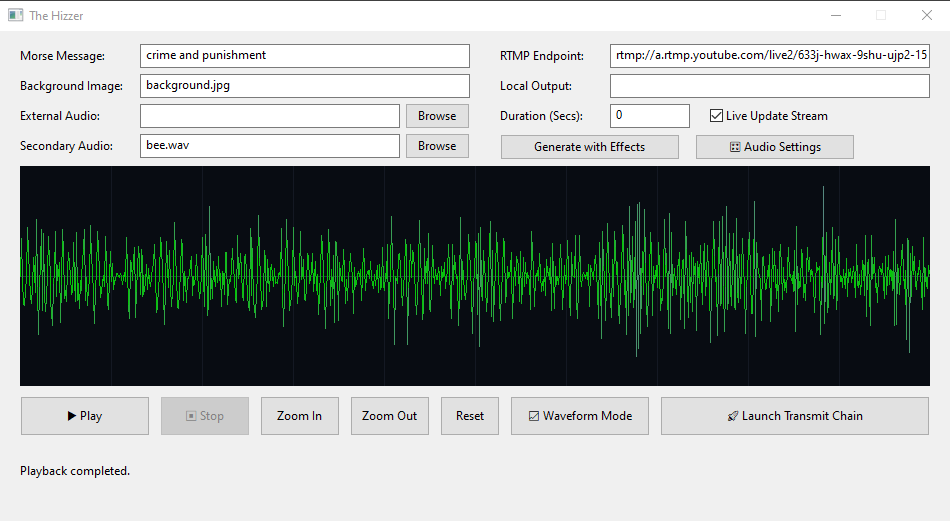
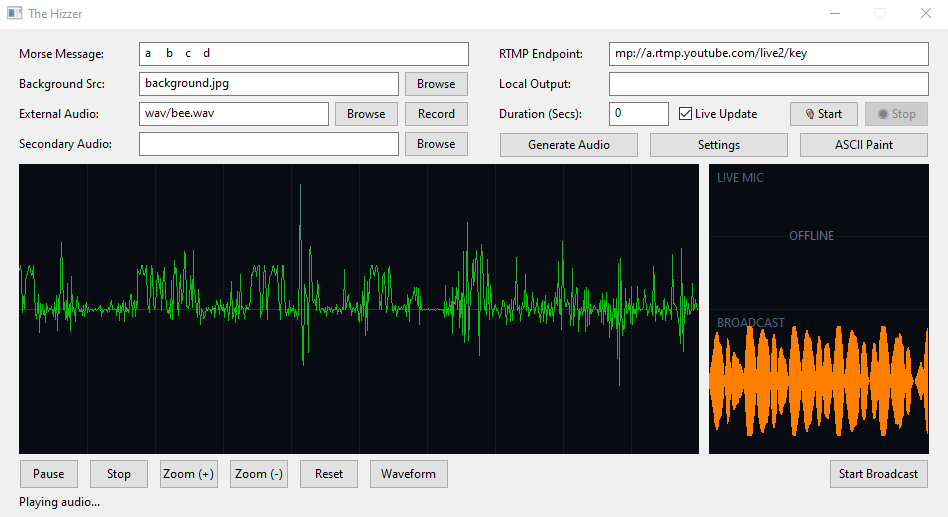
updated readme

diff --git a/README.md b/README.md
@@ -1,45 +1,163 @@
 # The Hizzer - Audio Processing & Streaming Suite
 
-A fun experimental tool for real-time audio processing with Morse code synthesis, broadcast-style effects, and streaming capabilities. Replicates the classic "buzzer" sound found in shortwave radio transmissions.
+A fun experimental tool for real-time audio processing with Morse code synthesis, broadcast-style effects, live microphone mixing, ASCII art audio synthesis, and streaming capabilities. Replicates the classic "buzzer" sound found in shortwave radio transmissions.
 
 ## Features
 
-- **Audio Processing Chain** - Filters, distortion, compression, EQ, reverb, delay, ring/amplitude/phase modulation
-- **Special Effects** - HIZZER carrier signal, AM radio, Walkie-Talkie, tape wow/flutter, radio fading, filter sweep
-- **Real-time Visualizers** - Waveform, spectrum analyzer, waterfall spectrogram
-- **Morse Code Synthesis** - Convert text to Morse with configurable tone and timing
-- **External Audio Mixing** - Layer up to 2 external WAV files
-- **Live Streaming** - RTMP streaming via FFmpeg
-- **Local Recording** - Output to file
+### Audio Processing Chain
+- **Filters** - Low-pass, high-pass, band-pass, resonant filter sweep
+- **Distortion & Lo-Fi** - Adjustable distortion, bit crushing, sample rate reduction
+- **Modulation** - Ring modulation, amplitude modulation, phase modulation
+- **Time-based Effects** - Reverb with adjustable decay, delay with feedback
+- **EQ & Dynamics** - 3-band EQ (bass/mid/treble), dynamic range compressor
+- **Noise Generation** - Noise floor, pulse interference, static crackle simulation
+
+### Special Broadcast Effects
+- **HIZZER Carrier** - Configurable carrier frequency (4625 Hz typical), pulse rate, and modulation depth
+- **Radio Noise** - Simulates atmospheric noise, power line hum, and RF heterodyne whistles
+- **Walkie-Talkie** - Simulates VHF radio with steep band-pass and carbon mic saturation
+- **Blown-out Speaker** - Hard clipping and wavefolding distortion
+- **Tape Wow/Flutter** - Classic analog tape pitch instability
+- **Radio Fading** - HF multi-path propagation fading simulation
+
+### Real-time Visualizers
+- **Waveform** - Zoom and pan with mouse drag
+- **Spectrum Analyzer** - Peak hold and dB grid overlay
+- **Waterfall Spectrogram** - Color-coded frequency vs time display
+
+### Morse Code Synthesis
+- Convert text to Morse with configurable tone frequency and timing
+- Adjustable dot/dash duration and beep volume
+
+### External Audio Mixing
+- Layer up to 2 external WAV files (supports resampling to 44.1 kHz)
+
+### Live Microphone Capture
+- Real-time microphone input via DirectShow
+- Live waveform monitoring (split-screen display)
+- Record microphone to WAV file for later use
+
+### ASCII Art Audio Synthesis
+- Convert ASCII art or images to frequency-domain audio
+- Real-time spectrogram generation from text/art
+- ASCII art painter with image-to-ASCII conversion
+
+### Broadcast Monitor
+- Split-screen live visualization showing:
+  - **Top**: Live microphone input waveform
+  - **Bottom**: Broadcast audio stream waveform
+
+### Streaming & Recording
+- **RTMP Streaming** - Live streaming via FFmpeg
+- **Local Recording** - Output to file (supports MP4 container)
+- Automatic reconnection on stream disconnection
 
 ## Preview
 
-| Waveform | Spectrum Analyzer | Waterfall |
-|----------|------------------|-----------|
-| ![Waveform](preview/1.png) | ![Spectrum](preview/2.png) | ![Waterfall](preview/3.png) |
+### Waveform
+![Waveform](preview/1.png)
+
+### Spectrum Analyzer
+![Spectrum](preview/2.png)
+
+### Waterfall
+![Waterfall](preview/3.png)
+
+### Audio Processing
+![Settings](preview/4.png)
+
+### ASCII Spectrogram
+![ASCII](preview/5.png)
+
+### ASCII Generator
+![ASCII_GEN](preview/6.png)
 
 ## System Requirements
 
-- Windows OS
+- Windows OS (DirectShow audio capture)
 - FFmpeg in PATH
 - Go 1.21+ (for building)
 
 ## Quick Start
 
-1. Install FFmpeg
+1. Install FFmpeg and ensure it's in your PATH
 2. Run `hizzer.exe`
 3. Enter Morse message and RTMP URL (optional)
 4. Click **Audio Settings** to configure effects
-5. Click **Generate with Effects**
-6. Preview with Play button
-7. Click **Launch Transmit Chain** to stream
+5. Click **Generate with Effects** to create the audio
+6. Preview with Play/Pause/Stop buttons
+7. Click **Start Broadcast** to begin streaming
+
+## Controls & Interface
+
+### Main Window
+| Control | Function |
+|---------|----------|
+| Morse Message | Text to convert to Morse code |
+| Background Src | Image or video file for stream background |
+| RTMP Endpoint | Streaming server URL |
+| Local Output | File path for local recording |
+| External Audio 1 & 2 | WAV files to mix with Morse |
+| Duration | Stream duration limit (0 = unlimited) |
+| Live Update | Auto-refresh visualizers on audio generation |
+| Start/Stop | Live microphone capture |
+
+### Audio Settings Panel
+
+#### Signal & Filters
+- Buzzer Carrier (frequency, pulse rate, modulation depth)
+- Low-pass / High-pass filters
+- Filter Sweep (VCF)
+
+#### Analog Grit & EQ
+- Distortion amount
+- Bit crushing depth
+- Sample rate reduction
+- 3-band Equalizer (-12 to +12 dB)
+
+#### Space & Time FX
+- Reverb (amount, decay time)
+- Delay (amount, time, feedback)
+- Tape Wow/Flutter
+
+#### Broadcast & Special
+- Pulse interference
+- Static crackle
+- Noise floor (dB)
+- Radio Noise Filter
+- Walkie-Talkie (VHF) Filter
+- Blown-out Speaker Filter
+- Compressor (threshold, ratio)
+
+#### Beep & Mix Settings
+- Beep frequency, volume, dot duration
+- External audio 1 & 2 volume
+
+### ASCII Art Painter
+- Create or edit ASCII art for spectrogram synthesis
+- Import images (PNG, JPG) to convert to ASCII
+- Generate audio directly or save to external audio slots
+- Real-time waterfall visualization of the generated content
+
+### Playback Controls
+- **Play/Pause** - Control audio preview
+- **Stop** - Stop playback
+- **Zoom (+/-)** - Waveform zoom (spectrum not affected)
+- **Reset** - Reset waveform zoom
+- **Waveform/Spectrum/Waterfall** - Cycle visualizer modes
+
+### Broadcast Controls
+- **Start Broadcast** - Begin streaming to RTMP or local file
+- Monitor panel shows live mic and broadcast waveforms
 
 ## Presets
 
-- **HIZZER** - Full processing chain
-- **AM Radio** - Broadcast simulation
-- **Lo-Fi** - Bit crushing & sample rate reduction
-- **Clean** - Minimal processing
+| Preset | Description |
+|--------|-------------|
+| **HIZZER** | Full processing chain with buzzer, filters, distortion, delay, reverb, compressor |
+| **AM Radio** | Broadcast simulation with radio noise, gentle compression, fading |
+| **Lo-Fi** | Bit crushing, sample reduction, tape wow/flutter, heavy compression |
+| **Clean** | Minimal processing, no effects, full bandwidth |
 
 ## Building
 
@@ -51,8 +169,20 @@ go build -o hizzer.exe main.go
 
 - [beep](https://github.com/faiface/beep) - Audio playback
 - [wui](https://github.com/gonutz/wui) - Windows GUI
-- FFmpeg - Streaming pipeline
+- FFmpeg - Streaming pipeline and microphone capture
+
+## Configuration
+
+Settings are automatically saved to `hizzer.config.json` in the same directory as the executable, preserving:
+- All audio processor parameters
+- Morse message text
+- Background source path
+- RTMP URL and output file path
+- External audio file paths
+- Stream duration
+- Visualizer mode
+- Live mic state
 
 ## License
 
-Tender is distributed under the [MIT License](LICENSE).
+The Hizzer is distributed under the [MIT License](LICENSE).
